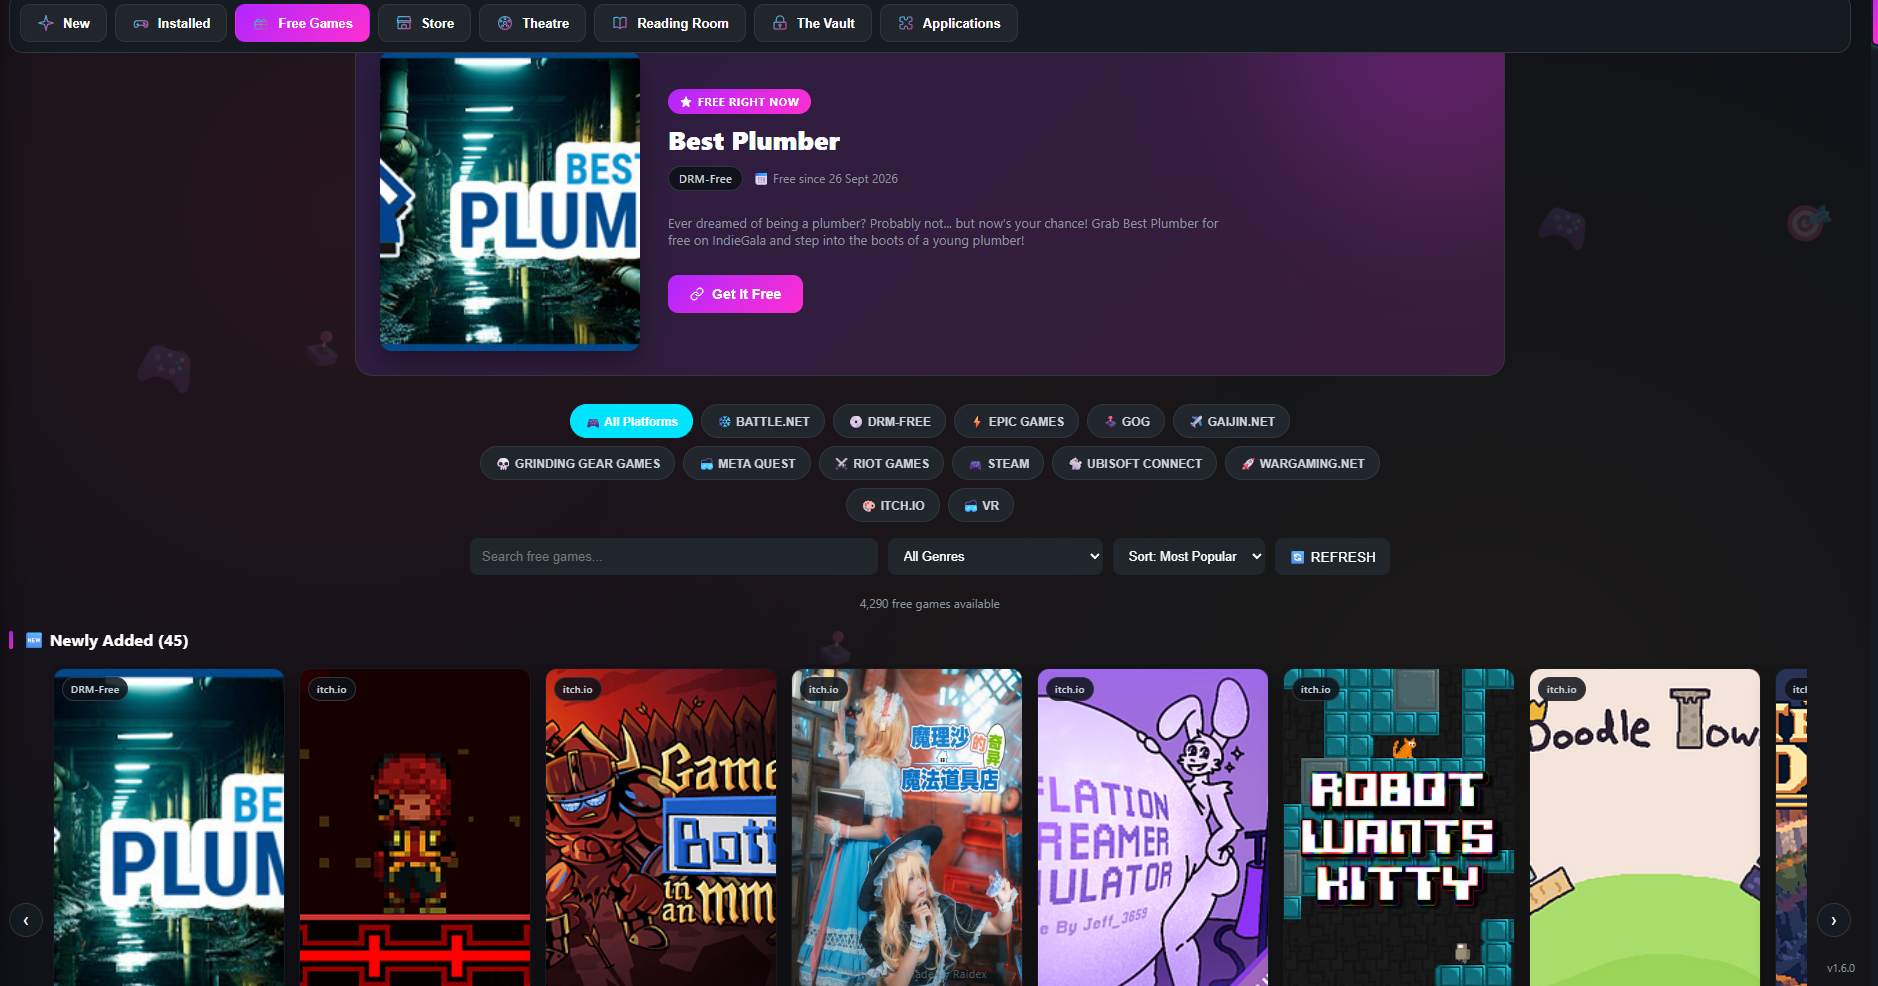
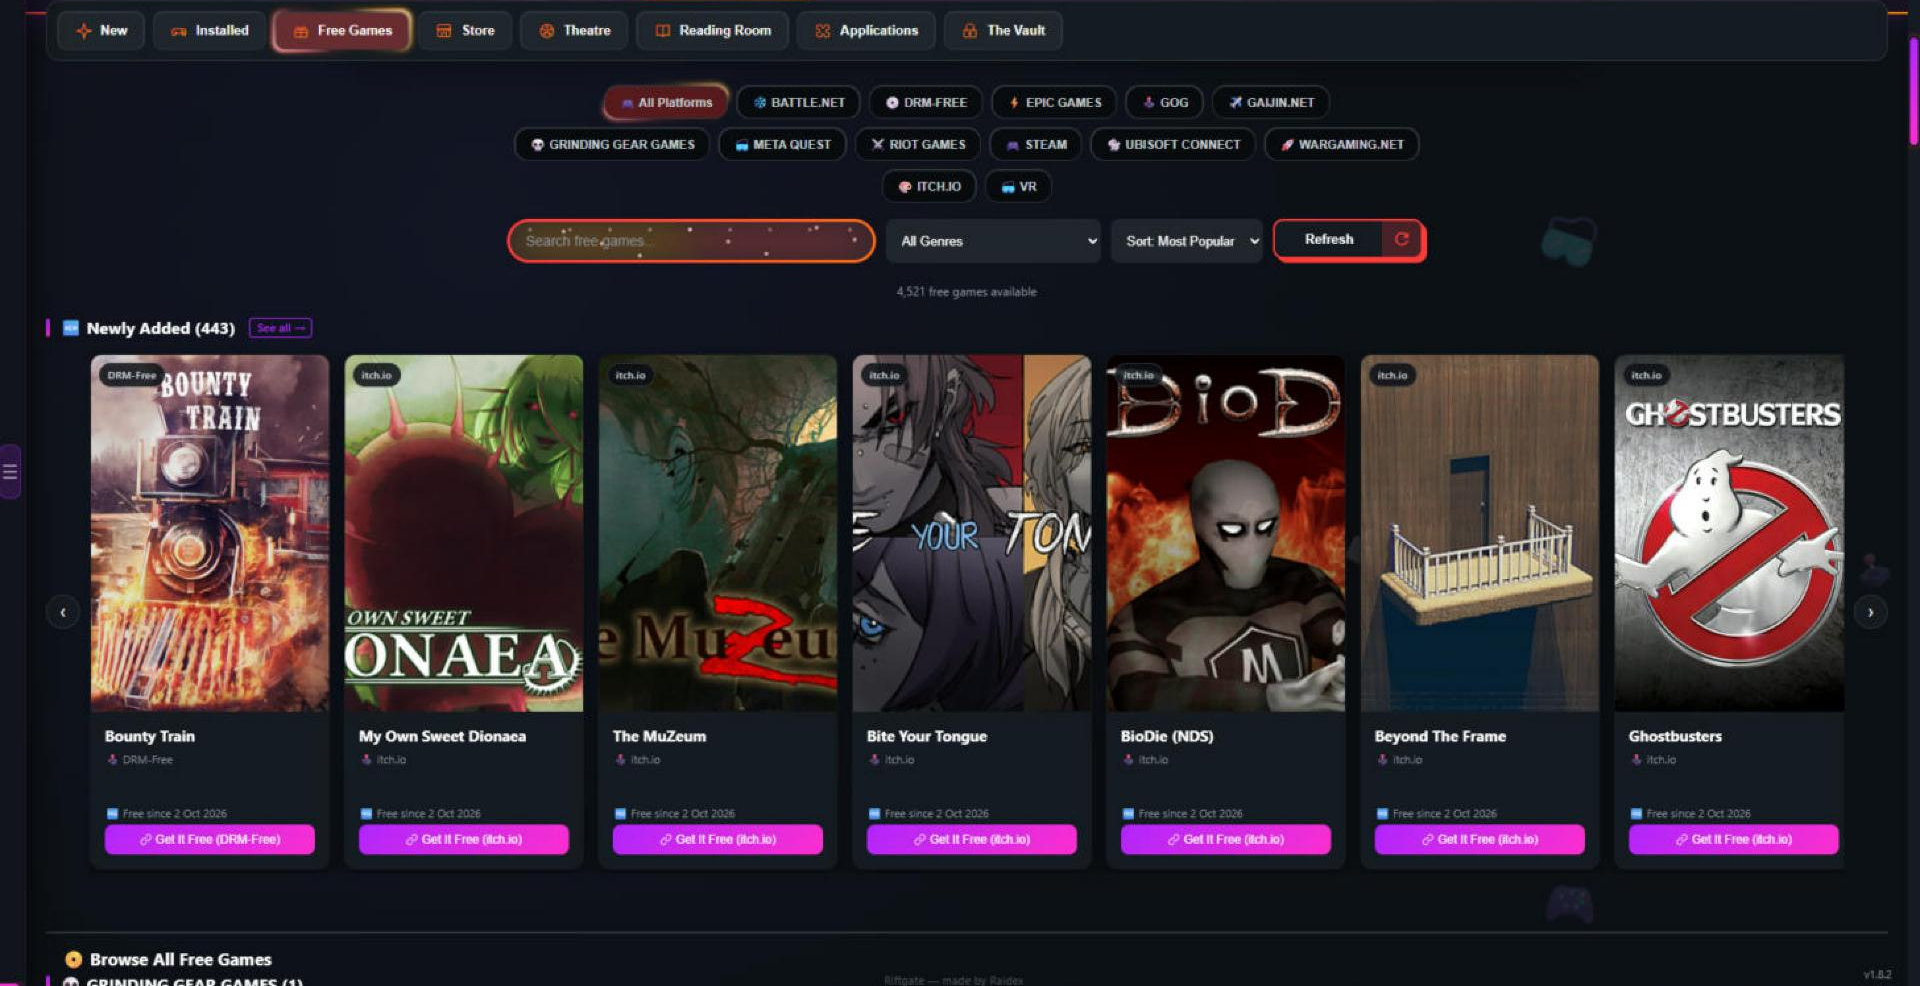
Docs for 1.8.2: new screenshots, README/site/architecture refresh
- Retake every README and landing-page screenshot from the 1.8.2 app
  (New, Installed, Free Games, Store, Theatre, Reading Room,
  Applications, Surprise Me) at 1920px; restore the site's missing
  New tab image
- README and site: Free Games/Store rows and "See all" (100 per page),
  cinema "Find Tickets", colour-coded buttons; site gains Controller &
  TV mode; image alt text matches the new shots
- README line counts updated to 1.8.2 (the old figures were stale)
- ARCHITECTURE: main.js ~8,600 lines / ~190 IPC handlers, renderer.js
  ~14,700, services/cinemas.js, build excludes release leftovers

Claude-Session: https://claude.ai/code/session_01AJu1MLLCcy1A8b8mvqWLVx

diff --git a/docs/index.html b/docs/index.html
@@ -52,10 +52,10 @@
     <div class="pillar-text">
       <span class="pillar-tag">🆕 New</span>
       <h3>Everything that's coming, in one feed.</h3>
-      <p>Upcoming games, films coming to cinemas in your country, new series and new anime — with hover trailers. Every row has a "See all" button that opens the complete list: every film releasing near you over the next 12 months, every upcoming game, every new series and anime, with search and sorting.</p>
+      <p>Upcoming games, films coming to cinemas in your country, new series and new anime — with hover trailers. Every row has a "See all" button that opens the complete list: every film releasing near you over the next 12 months, every upcoming game, every new series and anime — 100 per page, with search and sorting.</p>
     </div>
     <div class="pillar-visual pillar-visual--shot">
-      <img src="screenshots/new.jpg" alt="Riftgate's New tab showing upcoming games and new series" loading="lazy">
+      <img src="screenshots/new.jpg" alt="Riftgate's New tab showing the New Anime and New Series rows, each with a See all button" loading="lazy">
     </div>
   </div>
 
@@ -74,10 +74,10 @@
     <div class="pillar-text">
       <span class="pillar-tag pillar-tag--light">🎁 Free Games</span>
       <h3>Never miss what's free.</h3>
-      <p>Thousands of games that are free to keep or free to play right now — Steam, Epic Games, every free game on GOG, itch.io, giveaway trackers like GamerPower, and the big free-to-play titles from Battle.net, EA, Riot and Ubisoft — refreshed live, with a dedicated VR view, so a good deal never slips by unnoticed.</p>
+      <p>Thousands of games that are free to keep or free to play right now — Steam, Epic Games, every free game on GOG, itch.io, giveaway trackers like GamerPower, and the big free-to-play titles from Battle.net, EA, Riot and Ubisoft — refreshed live, with a dedicated VR view, so a good deal never slips by unnoticed. Newly Added and every platform get their own sideways row, and "See all" opens the whole list, 100 games per page.</p>
     </div>
     <div class="pillar-visual pillar-visual--shot">
-      <img src="screenshots/free-games.jpg" alt="Riftgate's Free Games section showing today's free spotlight game, platform filters and newly added free games" loading="lazy">
+      <img src="screenshots/free-games.jpg" alt="Riftgate's Free Games section showing platform filters and the Newly Added row of free games with its See all button" loading="lazy">
     </div>
   </div>
 
@@ -85,10 +85,10 @@
     <div class="pillar-text">
       <span class="pillar-tag">🛒 Store</span>
       <h3>The best deals, in one place.</h3>
-      <p>The biggest current discounts on PC games from Steam and dozens of other stores, in one searchable grid — with review scores, trailers, what kind of seller it is, and prices in your own region's currency.</p>
+      <p>The biggest current discounts on PC games from Steam and dozens of other stores, in one searchable grid topped by Newly Added, Most Popular and Recommended rows — with review scores, trailers, what kind of seller it is, and prices in your own region's currency.</p>
     </div>
     <div class="pillar-visual pillar-visual--shot">
-      <img src="screenshots/store.jpg" alt="Riftgate's Store section showing discounted games like The Witcher 3, It Takes Two and Hades II" loading="lazy">
+      <img src="screenshots/store.jpg" alt="Riftgate's Store section showing newly added deals like Cyberpunk 2077, Red Dead Redemption 2 and Baldur's Gate 3" loading="lazy">
     </div>
   </div>
 
@@ -96,10 +96,10 @@
     <div class="pillar-text">
       <span class="pillar-tag">🎬 Theatre</span>
       <h3>Cinema, streaming and your shows.</h3>
-      <p>See what's in cinemas near you, browse what's popular on Netflix, Prime Video, Disney+, Max and more in your region — or open a service's whole catalog — find where any title is streaming, and follow your TV series for new episodes. Every title comes with a full-screen trailer.</p>
+      <p>See what's in cinemas near you, browse what's popular on Netflix, Prime Video, Disney+, Max and more in your region — or open a service's whole catalog — find where any title is streaming, and follow your TV series for new episodes. Pick your cinema and "Find Tickets" opens its own site for sessions and tickets. Every title comes with a full-screen trailer.</p>
     </div>
     <div class="pillar-visual pillar-visual--shot">
-      <img src="screenshots/theatre.jpg" alt="Riftgate's Theatre section showing movies in theaters with ratings and showtime links" loading="lazy">
+      <img src="screenshots/theatre.jpg" alt="Riftgate's Theatre section showing films in cinemas, a cinema picker and Find Tickets buttons" loading="lazy">
     </div>
   </div>
 
@@ -110,7 +110,7 @@
       <p>Buy current best sellers and new releases, discover free public-domain books, browse dedicated Manga and Comics shelves, keep your own personal EPUB/PDF library — with drag-and-drop that works even while Riftgate is closed — and browse recommended eBook reader apps. Your recently opened titles are always one click away.</p>
     </div>
     <div class="pillar-visual pillar-visual--shot">
-      <img src="screenshots/reading-room.jpg" alt="Riftgate's Reading Room showing most popular and best-selling books" loading="lazy">
+      <img src="screenshots/reading-room.jpg" alt="Riftgate's Reading Room showing the Most Popular books row and the Buy Books, Discover Online, My Library, Manga, Comics and eBook Apps tabs" loading="lazy">
     </div>
   </div>
 
@@ -133,6 +133,8 @@
     <p>A few more things that come with every install:</p>
     <ul class="vault-list">
       <li><strong>🎲 Surprise Me</strong> — can't decide what to play, watch or read? Spin it. It already knows what section you're in, and the result comes with real context — genre, whether you've played it before and when, release info, all of it.</li>
+      <li><strong>🎮 Controller &amp; TV mode</strong> — play from the couch with an Xbox or PlayStation controller or a TV remote: the D-pad moves around, A opens, B goes back, LB/RB switch sections. While a controller is connected, TV mode makes everything bigger.</li>
+      <li><strong>🌈 Colour-coded buttons</strong> — games, films, books and apps each have their own colour, and Theatre tells films, series and anime apart, so you know what a button opens at a glance.</li>
       <li><strong>🎨 Nine color themes</strong> (the whole look, header included, follows the one you pick), light and dark mode, adjustable grid density, and a first-run tour that walks you through everything.</li>
       <li><strong>🔄 Automatic updates</strong> on Windows — install once, and every update after that installs itself.</li>
     </ul>

diff --git a/ARCHITECTURE.md b/ARCHITECTURE.md
@@ -19,11 +19,11 @@ suggestions).
 │  Main process (Node.js)                                     │
 │                                                               │
 │   main.js  ──requires──▶  services/                         │
-│   (~7,800 lines:            supabase.js   http.js           │
+│   (~8,600 lines:            supabase.js   http.js           │
 │    window/app lifecycle,    steam.js      tvmaze.js         │
-│    ~175 ipcMain handlers,   books.js      github.js         │
+│    ~190 ipcMain handlers,   books.js      github.js         │
 │    IPC validation, CSP,     tmdb.js       free-games.js     │
-│    local HTTP server)       content-filters.js              │
+│    local HTTP server)       content-filters.js cinemas.js   │
 │                             platform/ (windows.js, mac.js)  │
 │                                                               │
 │   Serves the UI over http://127.0.0.1:<random port>/         │
@@ -31,7 +31,7 @@ suggestions).
                              │ preload.js (contextBridge, channel allowlists)
 ┌───────────────────────────▼───────────────────────────────────┐
 │  Renderer (sandboxed, contextIsolation: true, nodeIntegration: │
-│  false) — index.html + renderer.js (~13,100 lines), the UI     │
+│  false) — index.html + renderer.js (~14,700 lines), the UI     │
 └─────────────────────────────────────────────────────────────┘
                              │
                              ▼ (all external calls happen in the
@@ -72,9 +72,9 @@ is refused too — must answer with an image, and is capped at 15 MB and
 
 **Codebase layout**, roughly in the order you'd want to read it:
 
-- `main.js` — app/window lifecycle, IPC handler wiring (~175
+- `main.js` — app/window lifecycle, IPC handler wiring (~190
   `ipcMain.handle` calls), the local server, CSP and IPC-sender
-  validation. Still the largest file by a wide margin; see
+  validation. Still the largest main-process file by a wide margin; see
   [Roadmap](#roadmap).
 - `preload.js` — the only bridge between the two; see
   [IPC architecture](#ipc-architecture).
@@ -176,7 +176,7 @@ and it's checked at both ends:
    `window.riftgate.invoke("something-not-on-the-list")` throws before it
    ever reaches the main process.
 2. **`main.js`** wraps `ipcMain.handle`/`on`/`once` themselves, so
-   *every* handler — all ~175 of them — is checked without having to
+   *every* handler — all ~190 of them — is checked without having to
    remember to add a check inside each one individually
    (`isTrustedIpcSender`, below). This is a second, independent layer:
    even a channel that's legitimately allowlisted in step 1 gets
@@ -368,7 +368,8 @@ npm run release    # electron-builder --publish always            — build + pu
 installer (`oneClick`, per-user, desktop + Start Menu shortcuts), flips the
 Electron fuses described above, and packs only the app's real files —
 `build.files` in `package.json` leaves out private notes, `supabase/`,
-docs, old backup copies and the retired banner video. `release` publishes
+docs, old backup copies, the retired banner video and local release
+leftovers (git bundles, `.blockmap`/`latest.yml` files, patches). `release` publishes
 to the GitHub Release matching the version in `package.json`, using a
 short-lived `GH_TOKEN` set only in the terminal window doing the release;
 the release itself is created on GitHub first (see `RELEASE.md` for why).
@@ -396,7 +397,7 @@ _(to be added)_
 
 Reflects the active backlog, roughly in priority order:
 
-- **Split `renderer.js` (next major architecture project)** — ~13,100
+- **Split `renderer.js` (next major architecture project)** — ~14,700
   lines in one file, organised only by `// --- Section ---` comment
   headers (about 50 of them). Target layout:
 
@@ -423,7 +424,7 @@ Reflects the active backlog, roughly in priority order:
   variables keep working, one section per commit; (3) only then, turn
   the files into ES modules with explicit imports and replace the shared
   globals with a small state module.
-- **Architecture** — split `main.js`'s remaining ~7,800 lines by
+- **Architecture** — split `main.js`'s remaining ~8,600 lines by
   subsystem (`ipc/`, `windows/`, `games/`, `free-games/`, `media/`,
   `vault/`, `auth/`, `system/`, alongside the existing `services/`)
   rather than one large file. The services extraction above is the first
@@ -466,7 +467,7 @@ Reflects the active backlog, roughly in priority order:
   click-through testing per release (see `RELEASE.md`) — CI now builds
   both platforms on every push, but that only catches build breakage,
   not behavioral bugs.
-- **`main.js` is still large** (~7,800 lines) despite the services
+- **`main.js` is still large** (~8,600 lines) despite the services
   extraction — IPC wiring, window/app lifecycle, and per-feature logic
   are still interleaved in one file. See [Roadmap](#roadmap).
 - **Mac build only partly verified.** The Mac Smoke Test workflow

diff --git a/README.md b/README.md
@@ -64,7 +64,7 @@ games, films coming to cinemas in your region, new series and new anime,
 with hover trailers. Every row has a **See all** button that opens the
 complete list — every film releasing in your country over the next 12
 months, every upcoming game, every series and anime that started in the
-last 90 days — with search and sorting.
+last 90 days — 100 per page, with search and sorting.
 
 **📀 Installed** — every game, app and VR title you run, on one shelf.
 Drag a shortcut or `.exe` onto the window to add it, or let Riftgate
@@ -78,16 +78,20 @@ anything you install later.
 keep or free to play right now: Steam, Epic Games, every free game on
 GOG, itch.io, giveaway trackers like GamerPower, and the big
 free-to-play titles from Battle.net, EA, Riot, Ubisoft and more — with a
-dedicated VR view, genre filters and search. Rows always fill your
-window, whatever its width.
+dedicated VR view, genre filters and search. Newly Added and every
+platform get their own sideways row of 20 games that always fills your
+window; **See all** next to each row's name opens that row's complete
+list, 100 games per page.
 
 ![Free Games](screenshots/free-games.png)
 
 **🛒 Store** — the biggest current discounts on PC games from Steam and
 dozens of other stores (GOG, Epic, Humble, Fanatical, GreenManGaming and
-more) in one searchable, sortable grid. Every deal shows its discount, a
-review-score badge (Steam rating or Metacritic) and a trailer, with a
-link straight to the store. Prices and currency follow your region.
+more) in one searchable, sortable grid, topped by Newly Added, Most
+Popular and Recommended rows — each with **See all** for every matching
+deal. Every deal shows its discount, a review-score badge (Steam rating
+or Metacritic) and a trailer, with a link straight to the store. Prices
+and currency follow your region.
 
 ![Store](screenshots/store.png)
 
@@ -128,7 +132,10 @@ controller is connected. Every button, per controller type:
 
 **🎨 Make it yours** — nine color themes (the whole look follows the one
 you pick), light and dark mode, adjustable card size, a first-run tour,
-and automatic updates on Windows.
+and automatic updates on Windows. Buttons are colour-coded by content
+type — games, films, books and apps each have their own colour, and
+Theatre tells films, series and anime apart — so you can tell at a
+glance what you're looking at.
 
 **🔒 Coming soon: The Vault** — private file and link sharing between
 friends, with automatic expiry.
@@ -159,13 +166,13 @@ the server. The database changes and server functions live in
 [OpenStreetMap](https://www.openstreetmap.org/copyright) (© OpenStreetMap
 contributors) and is cached for two weeks per city.
 
-Size, as of version 1.8.1 (counted with `wc -l`, blank lines and comments
+Size, as of version 1.8.2 (counted with `wc -l`, blank lines and comments
 included):
 
 | Part | Lines |
 |---|---|
-| App JavaScript (main process, UI logic, controller navigation, services) | 26,930 |
-| UI markup and styles (`index.html`, `style.css`) | 8,256 |
+| App JavaScript (main process, UI logic, controller navigation, services) | 28,742 |
+| UI markup and styles (`index.html`, `style.css`) | 9,955 |
 | Backend (Supabase Edge Functions, SQL migrations and rollbacks) | 2,508 |
 
 For a deeper technical look — the Electron process model, IPC and
